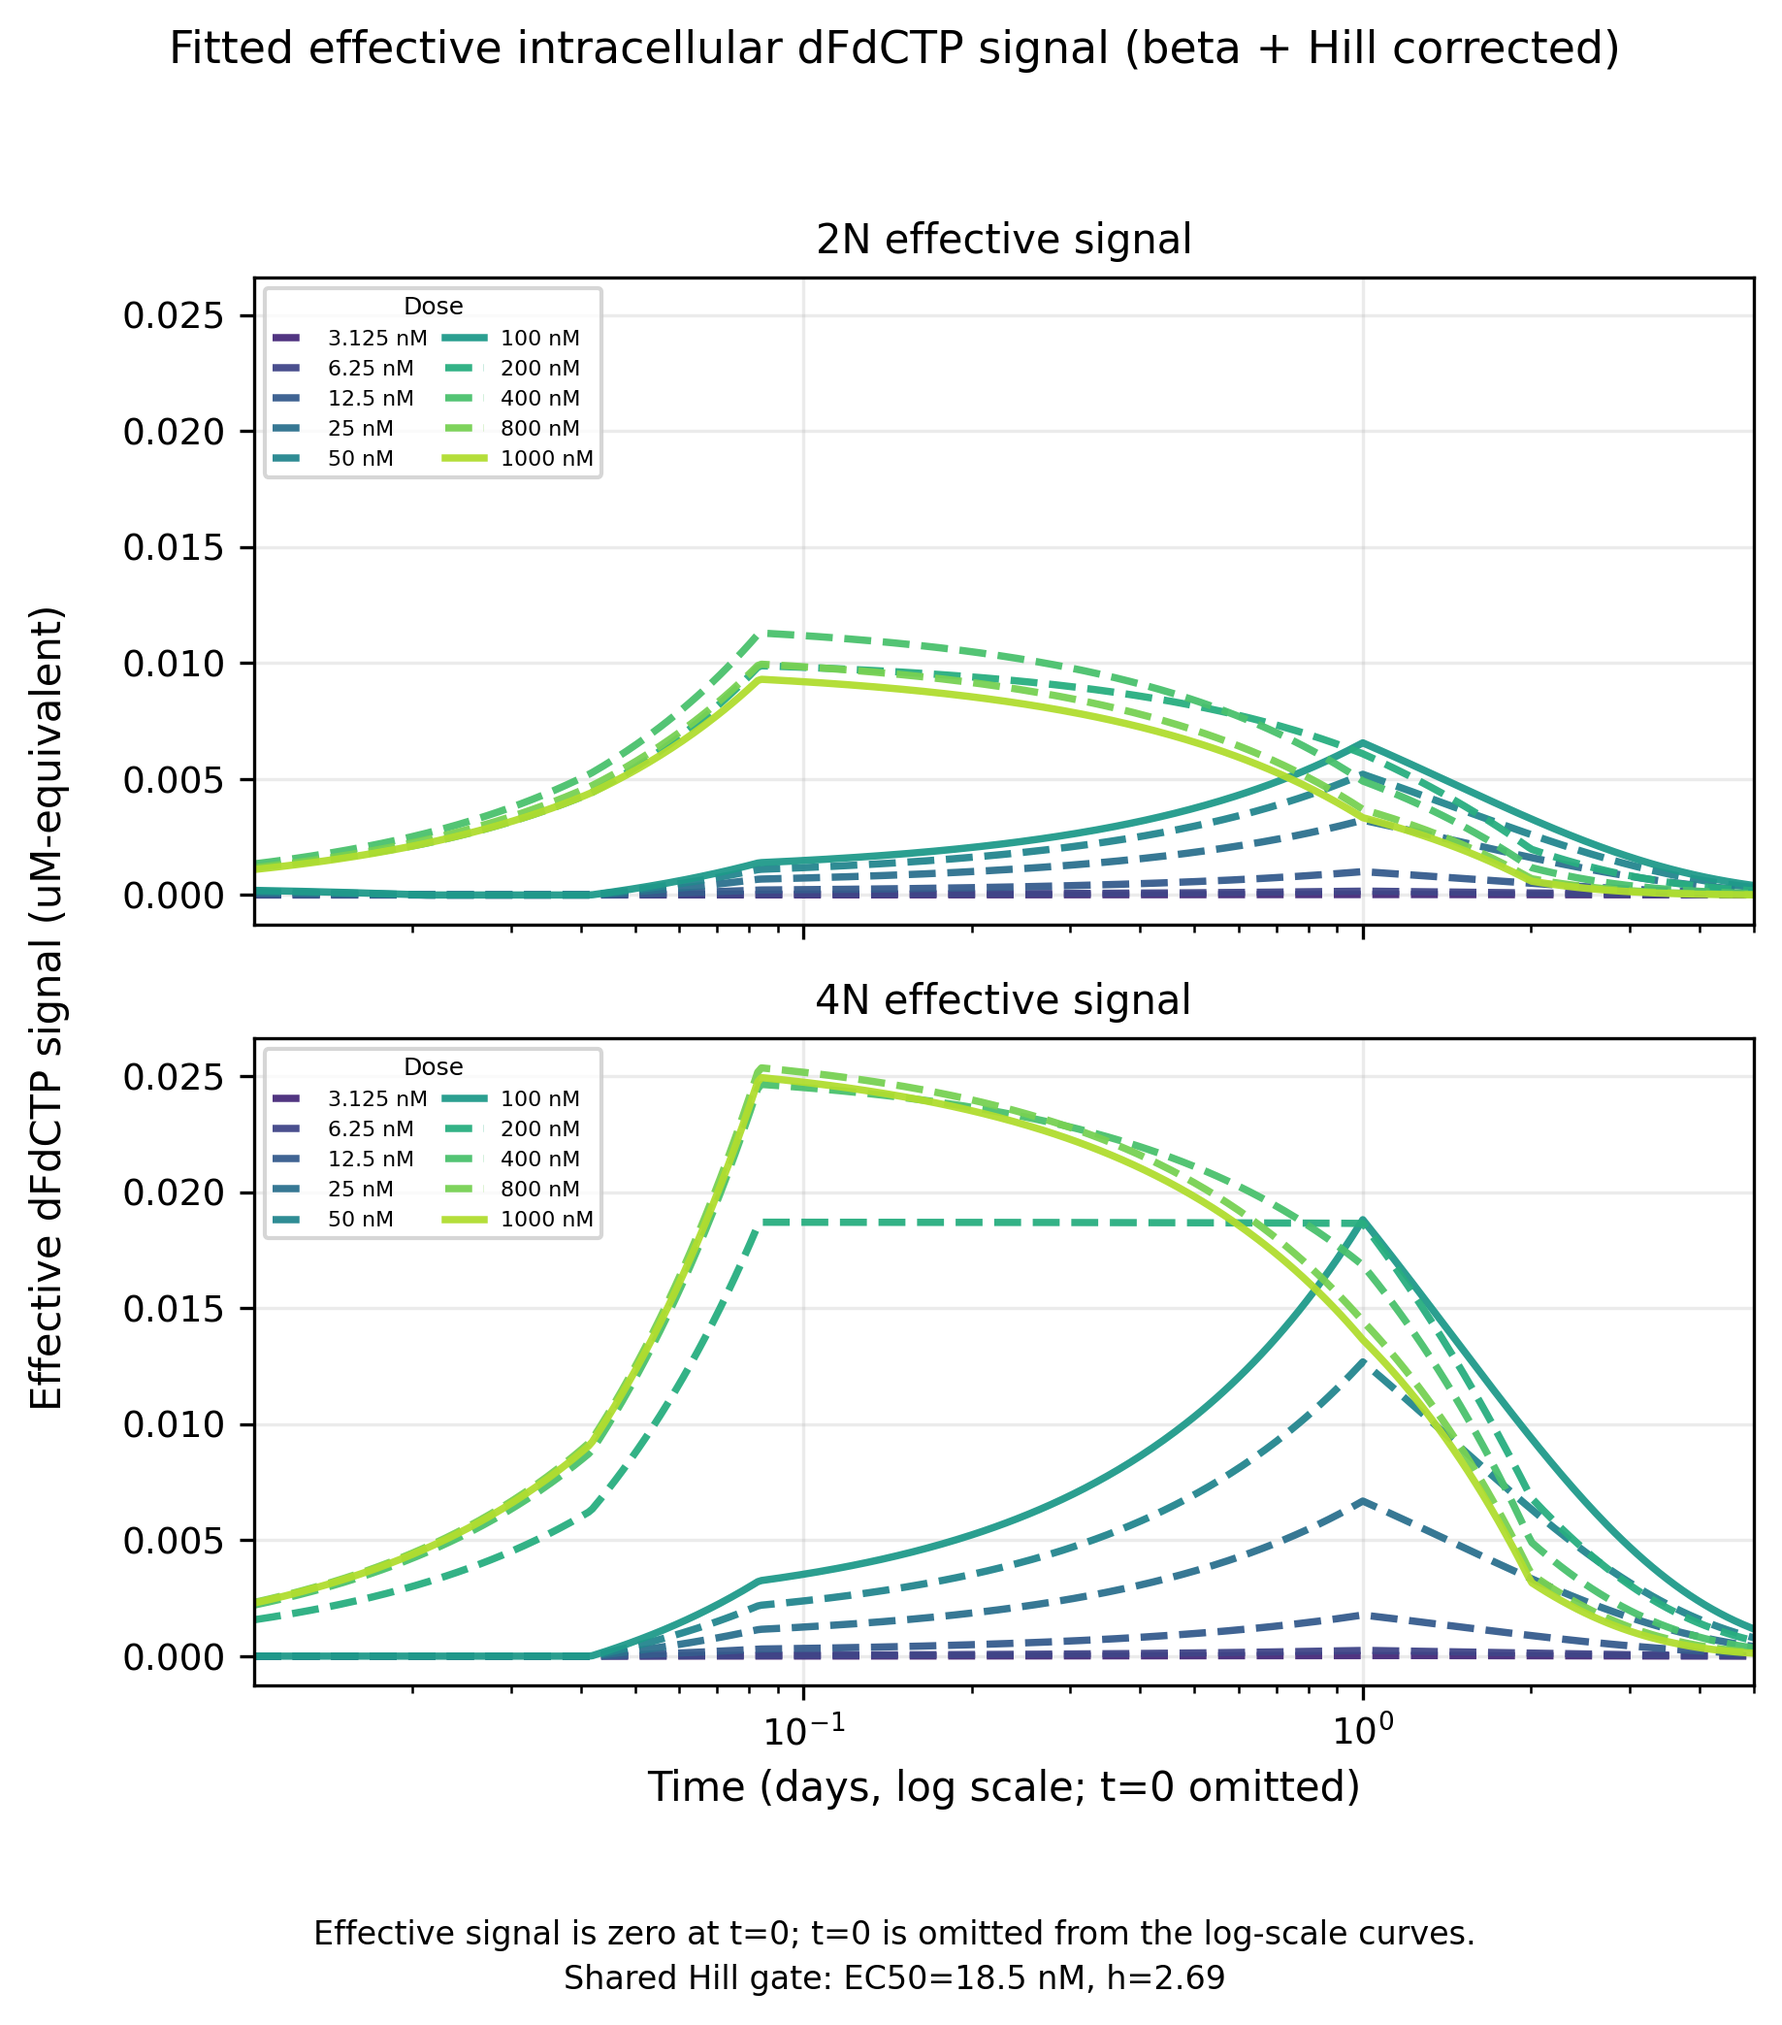
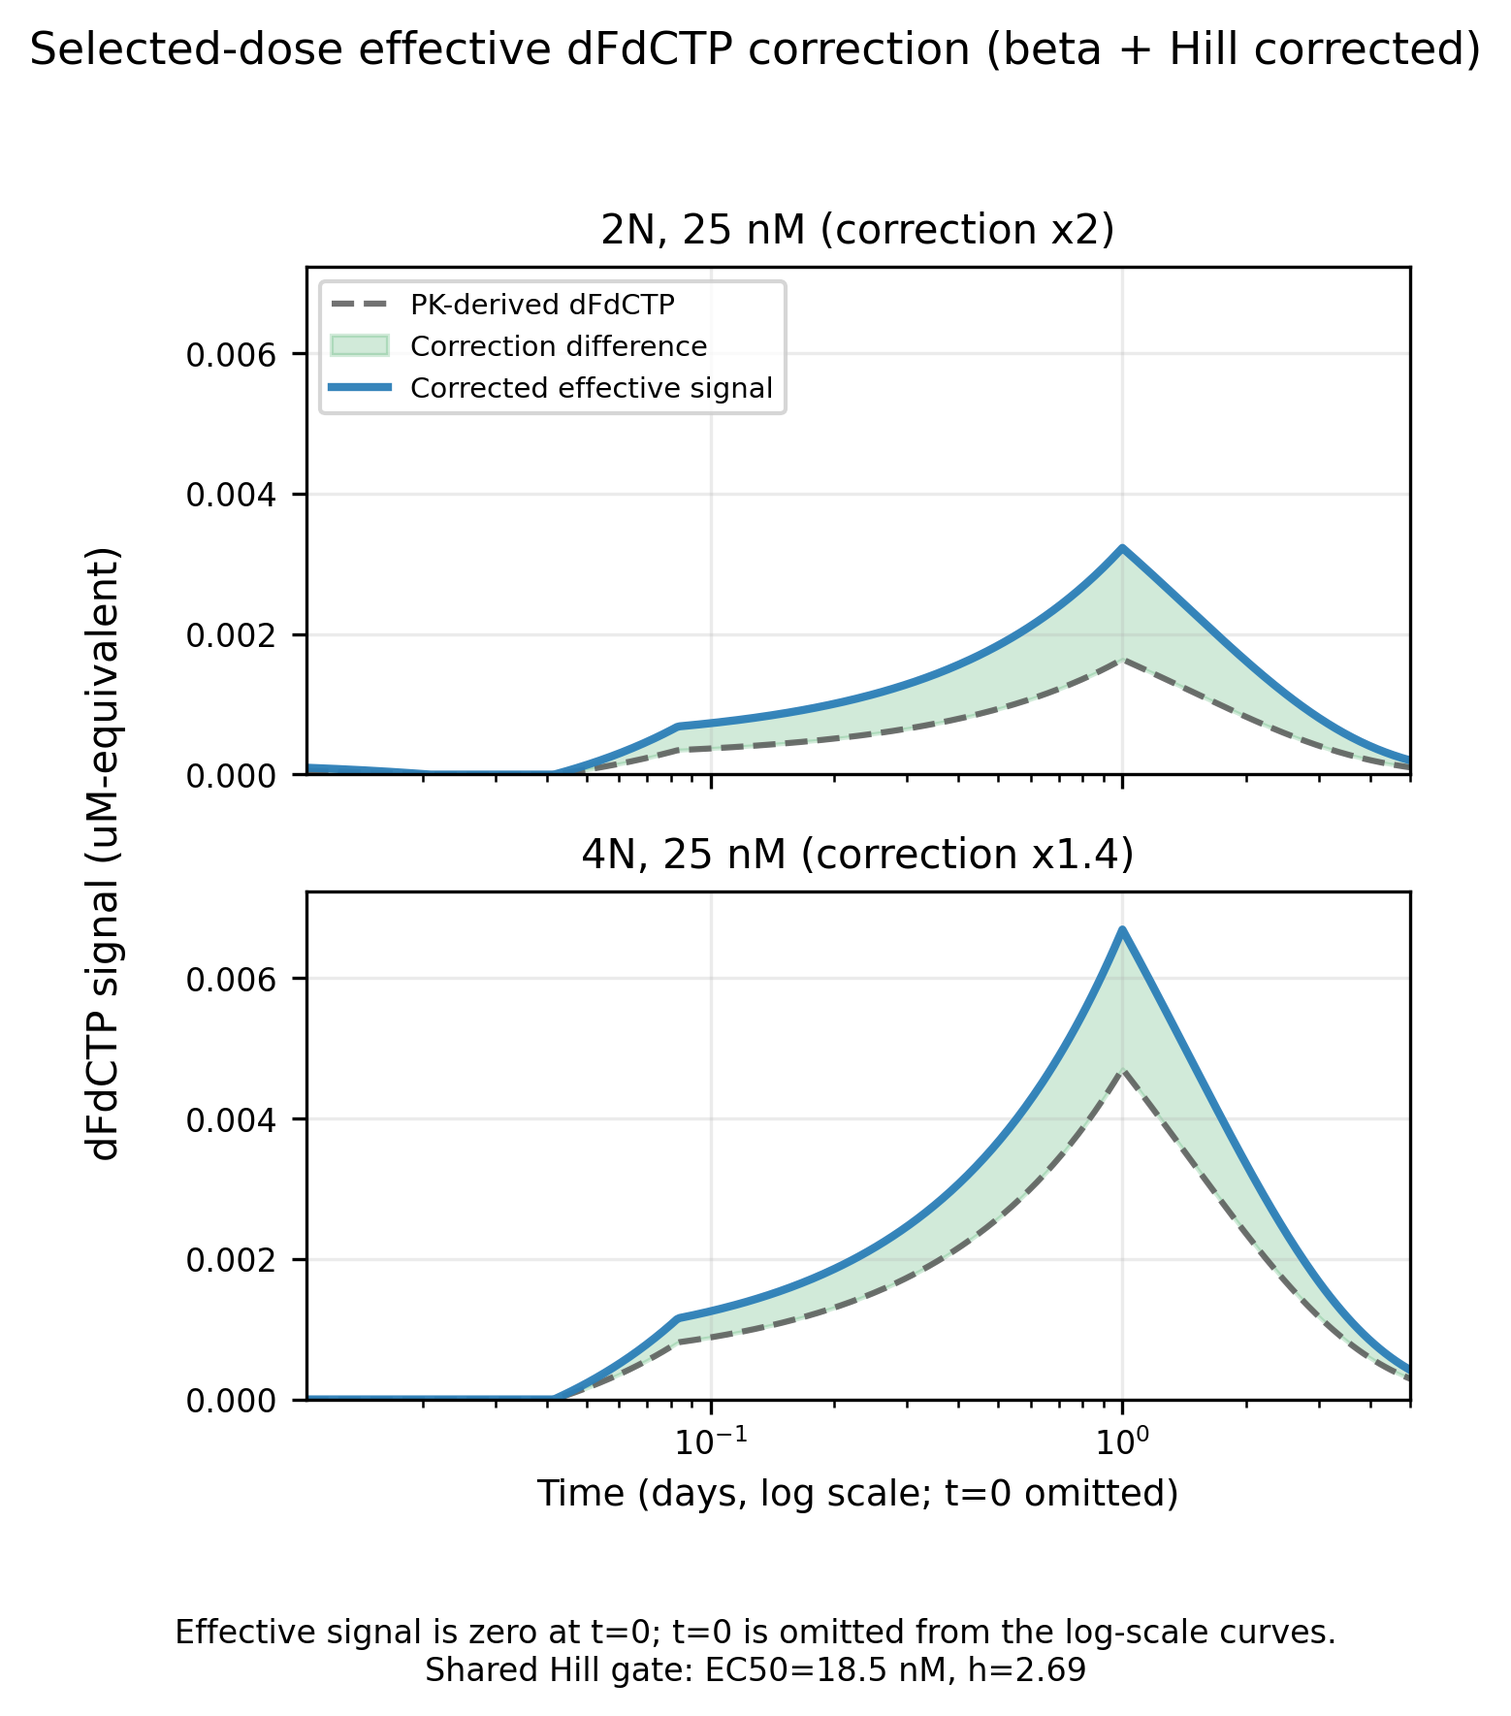
Focus Figure 5E on 25 nM dose correction
Update the PKPD saved-summary plotter so the Figure 5E effective-signal panel compares raw PK-derived and beta/Hill-corrected dFdCTP signals only at 25 nM. Add transparent green shading between the raw and corrected curves to make the correction magnitude visible while keeping a narrow y-range.

Regenerate the promoted PKPD source-run panel and manuscript-facing Figure 5E asset.

Validation: python3 -m py_compile Code/in-vitro/pkpd_live_dead_model/plot_invitro_fit_outputs.py; reran plot_invitro_fit_outputs.py on Results/in-vitro/pkpd_live_dead_model/runs/20260630T_promoted_panels_full_refit_pkpd_fit; reran materialize_figure_assets.py; restored unrelated manifest metadata churn; ran git diff --check; visually inspected the updated Figure 5E panel.

diff --git a/Code/in-vitro/pkpd_live_dead_model/plot_invitro_fit_outputs.py b/Code/in-vitro/pkpd_live_dead_model/plot_invitro_fit_outputs.py
@@ -753,28 +753,8 @@ def plot_effective_dfdctp_signal_curves(
     max_plot_time = max(5.0, max_time)
     t_grid = np.geomspace(min_positive_time, max_plot_time, 400)
 
-    plotted_doses_uM = {
-        float(dose_uM)
-        for _dose_label, dose_uM in get_live_dead_dose_items(fit_config)
-        if float(dose_uM) > 0
-    }
-    plotted_doses_uM.update(
-        float(dose)
-        for curve in available_curves.values()
-        for dose in curve.calibration_doses_uM
-        if float(dose) > 0
-    )
-    dose_items = [
-        (format_nm_dose_label(dose_uM), dose_uM)
-        for dose_uM in sorted(plotted_doses_uM)
-    ]
-    dose_colors = {
-        dose_label: color
-        for (dose_label, _dose_uM), color in zip(
-            dose_items,
-            plt.cm.viridis(np.linspace(0.12, 0.88, len(dose_items))),
-        )
-    }
+    selected_dose_items = [("25 nM", 0.025)]
+    dose_colors = {"25 nM": "#2C7FB8"}
 
     gate_ec50 = row_float(best_row, "dose_gate_ec50_uM", fit_config.fixed_dose_gate_ec50_uM)
     gate_hill = row_float(best_row, "dose_gate_hill", fit_config.fixed_dose_gate_hill)
@@ -786,17 +766,26 @@ def plot_effective_dfdctp_signal_curves(
         and gate_hill > 0
     )
 
-    fig, axes = plt.subplots(2, 1, figsize=(6.2, 7.0), sharex=True, sharey=True)
-    for ax, ploidy in zip(axes, ("2N", "4N")):
+    fig, axes = plt.subplots(
+        2,
+        len(selected_dose_items),
+        figsize=(4.8, 5.9),
+        sharex=True,
+        sharey=True,
+        squeeze=False,
+    )
+    max_signal = 0.0
+    for row_idx, ploidy in enumerate(("2N", "4N")):
         if ploidy not in available_curves:
-            ax.set_axis_off()
+            for ax in axes[row_idx, :]:
+                ax.set_axis_off()
             continue
         curve = available_curves[ploidy]
         params = ploidy_parameter_dict(best_row, ploidy, fit_config)
         beta_dose = float(params.get("beta_dose", fit_config.fixed_beta_dose))
         reference_dose = invitro_fitting.get_dose_scaling_reference_uM(curve)
-        calibrated_doses = np.asarray(curve.calibration_doses_uM, dtype=float)
-        for dose_label, dose_uM in dose_items:
+        for col_idx, (dose_label, dose_uM) in enumerate(selected_dose_items):
+            ax = axes[row_idx, col_idx]
             pk_signal = np.asarray(curve(t_grid, dose_uM), dtype=float)
             effective_signal = np.asarray(
                 [
@@ -813,38 +802,63 @@ def plot_effective_dfdctp_signal_curves(
                 ],
                 dtype=float,
             )
-            is_calibrated_pk_dose = bool(np.any(np.isclose(calibrated_doses, dose_uM, rtol=1e-6, atol=1e-9)))
+            correction_factor = invitro_fitting.apply_effective_dose_correction(
+                signal_uM=1.0,
+                dose_uM=dose_uM,
+                reference_dose_uM=reference_dose,
+                beta_dose=beta_dose,
+                use_hill_dose_gate=use_hill,
+                dose_gate_ec50_uM=gate_ec50 if use_hill else None,
+                dose_gate_hill=gate_hill if use_hill else None,
+            )
+            max_signal = max(
+                max_signal,
+                float(np.nanmax(pk_signal)) if np.size(pk_signal) else 0.0,
+                float(np.nanmax(effective_signal)) if np.size(effective_signal) else 0.0,
+            )
+            ax.plot(
+                t_grid,
+                pk_signal,
+                color="0.35",
+                linestyle="--",
+                linewidth=1.5,
+                alpha=0.85,
+                label="PK-derived dFdCTP",
+            )
+            ax.fill_between(
+                t_grid,
+                pk_signal,
+                effective_signal,
+                color="#31A354",
+                alpha=0.22,
+                label="Correction difference",
+            )
             ax.plot(
                 t_grid,
                 effective_signal,
                 color=dose_colors[dose_label],
-                linestyle="-" if is_calibrated_pk_dose else "--",
-                linewidth=1.8,
+                linestyle="-",
+                linewidth=2.0,
                 alpha=0.95,
-                label=dose_label,
+                label="Corrected effective signal",
             )
+            ax.set_xscale("log")
+            ax.set_xlim(min_positive_time, max_plot_time)
+            ax.set_title(f"{ploidy}, {dose_label} (correction x{correction_factor:.2g})", fontsize=10)
+            ax.grid(True, alpha=0.25)
+            ax.tick_params(axis="both", labelsize=8)
+            if row_idx == 0 and col_idx == 0:
+                ax.legend(loc="upper left", fontsize=7, frameon=True)
 
-        ax.set_xscale("log")
-        ax.set_xlim(min_positive_time, max_plot_time)
-        ax.set_title(f"{ploidy} effective signal", fontsize=10)
-        ax.grid(True, alpha=0.25)
-        ax.tick_params(axis="both", labelsize=9)
-        ax.legend(
-            loc="upper left",
-            fontsize=5.3,
-            title="Dose",
-            title_fontsize=6,
-            ncol=2,
-            frameon=True,
-            borderpad=0.35,
-            handlelength=1.8,
-            columnspacing=0.8,
-        )
-
-    fig.supylabel("Effective dFdCTP signal (uM-equivalent)", fontsize=10)
-    axes[-1].set_xlabel("Time (days, log scale; t=0 omitted)", fontsize=10)
+    fig.supylabel("dFdCTP signal (uM-equivalent)", fontsize=10)
+    if max_signal > 0:
+        for ax in axes.ravel():
+            if ax.has_data():
+                ax.set_ylim(0.0, max_signal * 1.08)
+    for ax in axes[-1, :]:
+        ax.set_xlabel("Time (days, log scale; t=0 omitted)", fontsize=9)
     correction_label = "beta + Hill corrected" if use_hill else "beta corrected"
-    fig.suptitle(f"Fitted effective intracellular dFdCTP signal ({correction_label})", fontsize=11)
+    fig.suptitle(f"Selected-dose effective dFdCTP correction ({correction_label})", fontsize=11)
     if use_hill:
         fig.text(
             0.5,
